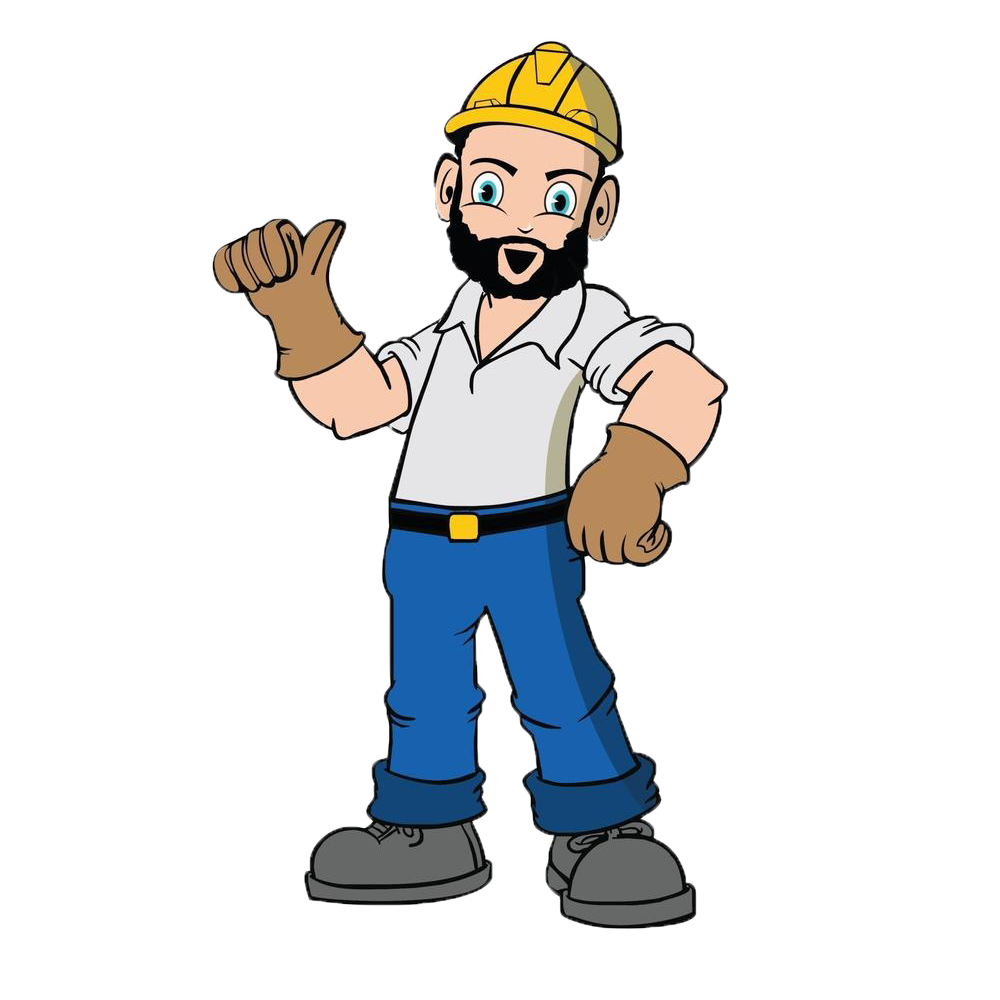
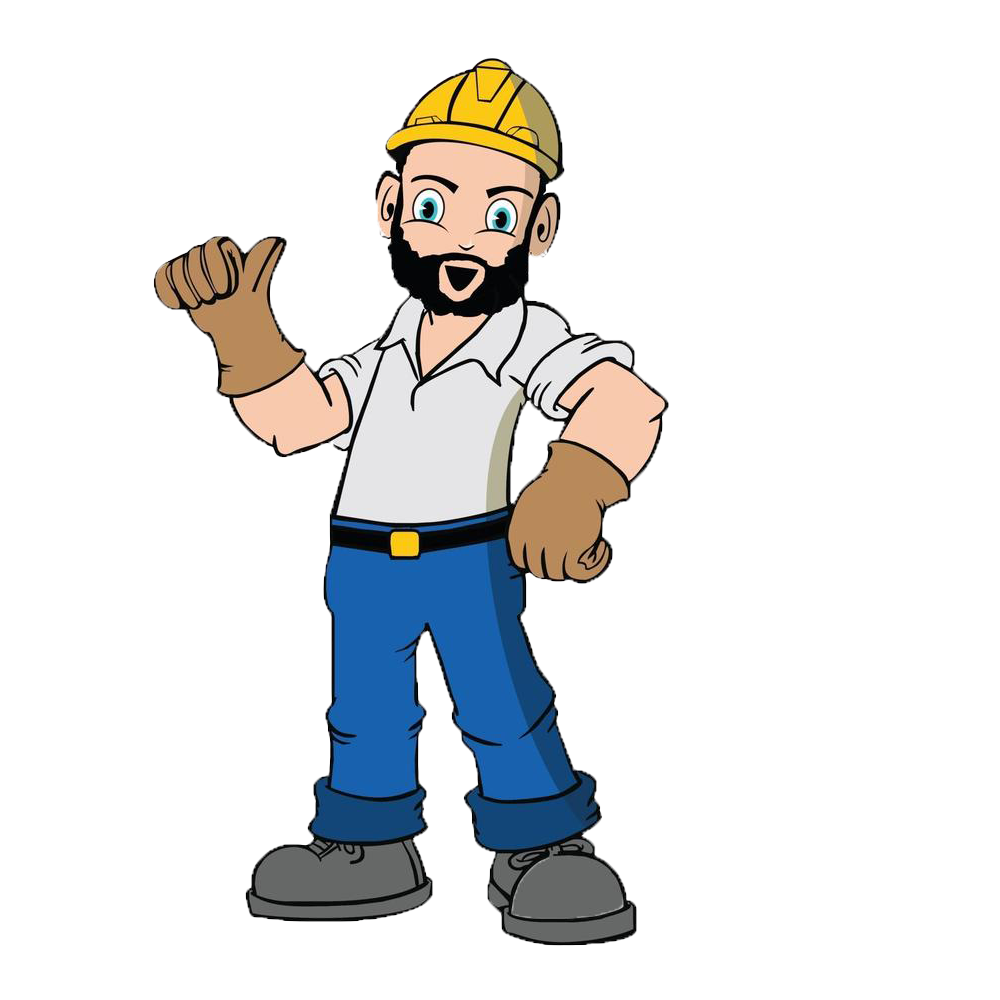
page en construction ok

Changed region(s): [[0.155, 0.031, 0.744, 0.961]]

diff --git a/src/router/index.js b/src/router/index.js
@@ -8,6 +8,7 @@ import concertView from "../views/concertView.vue";
 import contactView from "../views/contactView.vue";
 import mentionslegalesView from "../views/mentionslegalesView.vue";
 import page404View from "../views/page404View.vue";
+import pageEnConstructionView from "../views/pageEnConstructionView.vue";
 import chatView from "../views/chatView.vue";
 
 const router = createRouter({
@@ -29,6 +30,11 @@ const router = createRouter({
       path: "/:pathMatch(.*)*",
       name: "page404View",
       component: page404View,
+    },
+    {
+      path: "/pageconstruction",
+      name: "pageEnConstructionView",
+      component: pageEnConstructionView,
     },
     {
       path: "/chatView",

diff --git a/src/views/pageEnConstructionView.vue b/src/views/pageEnConstructionView.vue
@@ -1,0 +1,19 @@
+<template>
+  <div
+    class="-mt-16 grid h-screen place-items-center bg-gradient-to-b from-vert via-jaune to-rouge text-center lg:pt-20"
+  >
+    <div class="">
+      <h2 class="font-roboto text-4xl font-semibold uppercase text-noir">
+        en construction
+      </h2>
+      <h3 class="font-roboto text-xl font-bold uppercase text-noir">
+        page bientôt disponible
+      </h3>
+    </div>
+    <img
+      src="../../public/page-construction.png"
+      alt=""
+      class="-mt-80 h-96 lg:-mt-36"
+    />
+  </div>
+</template>
